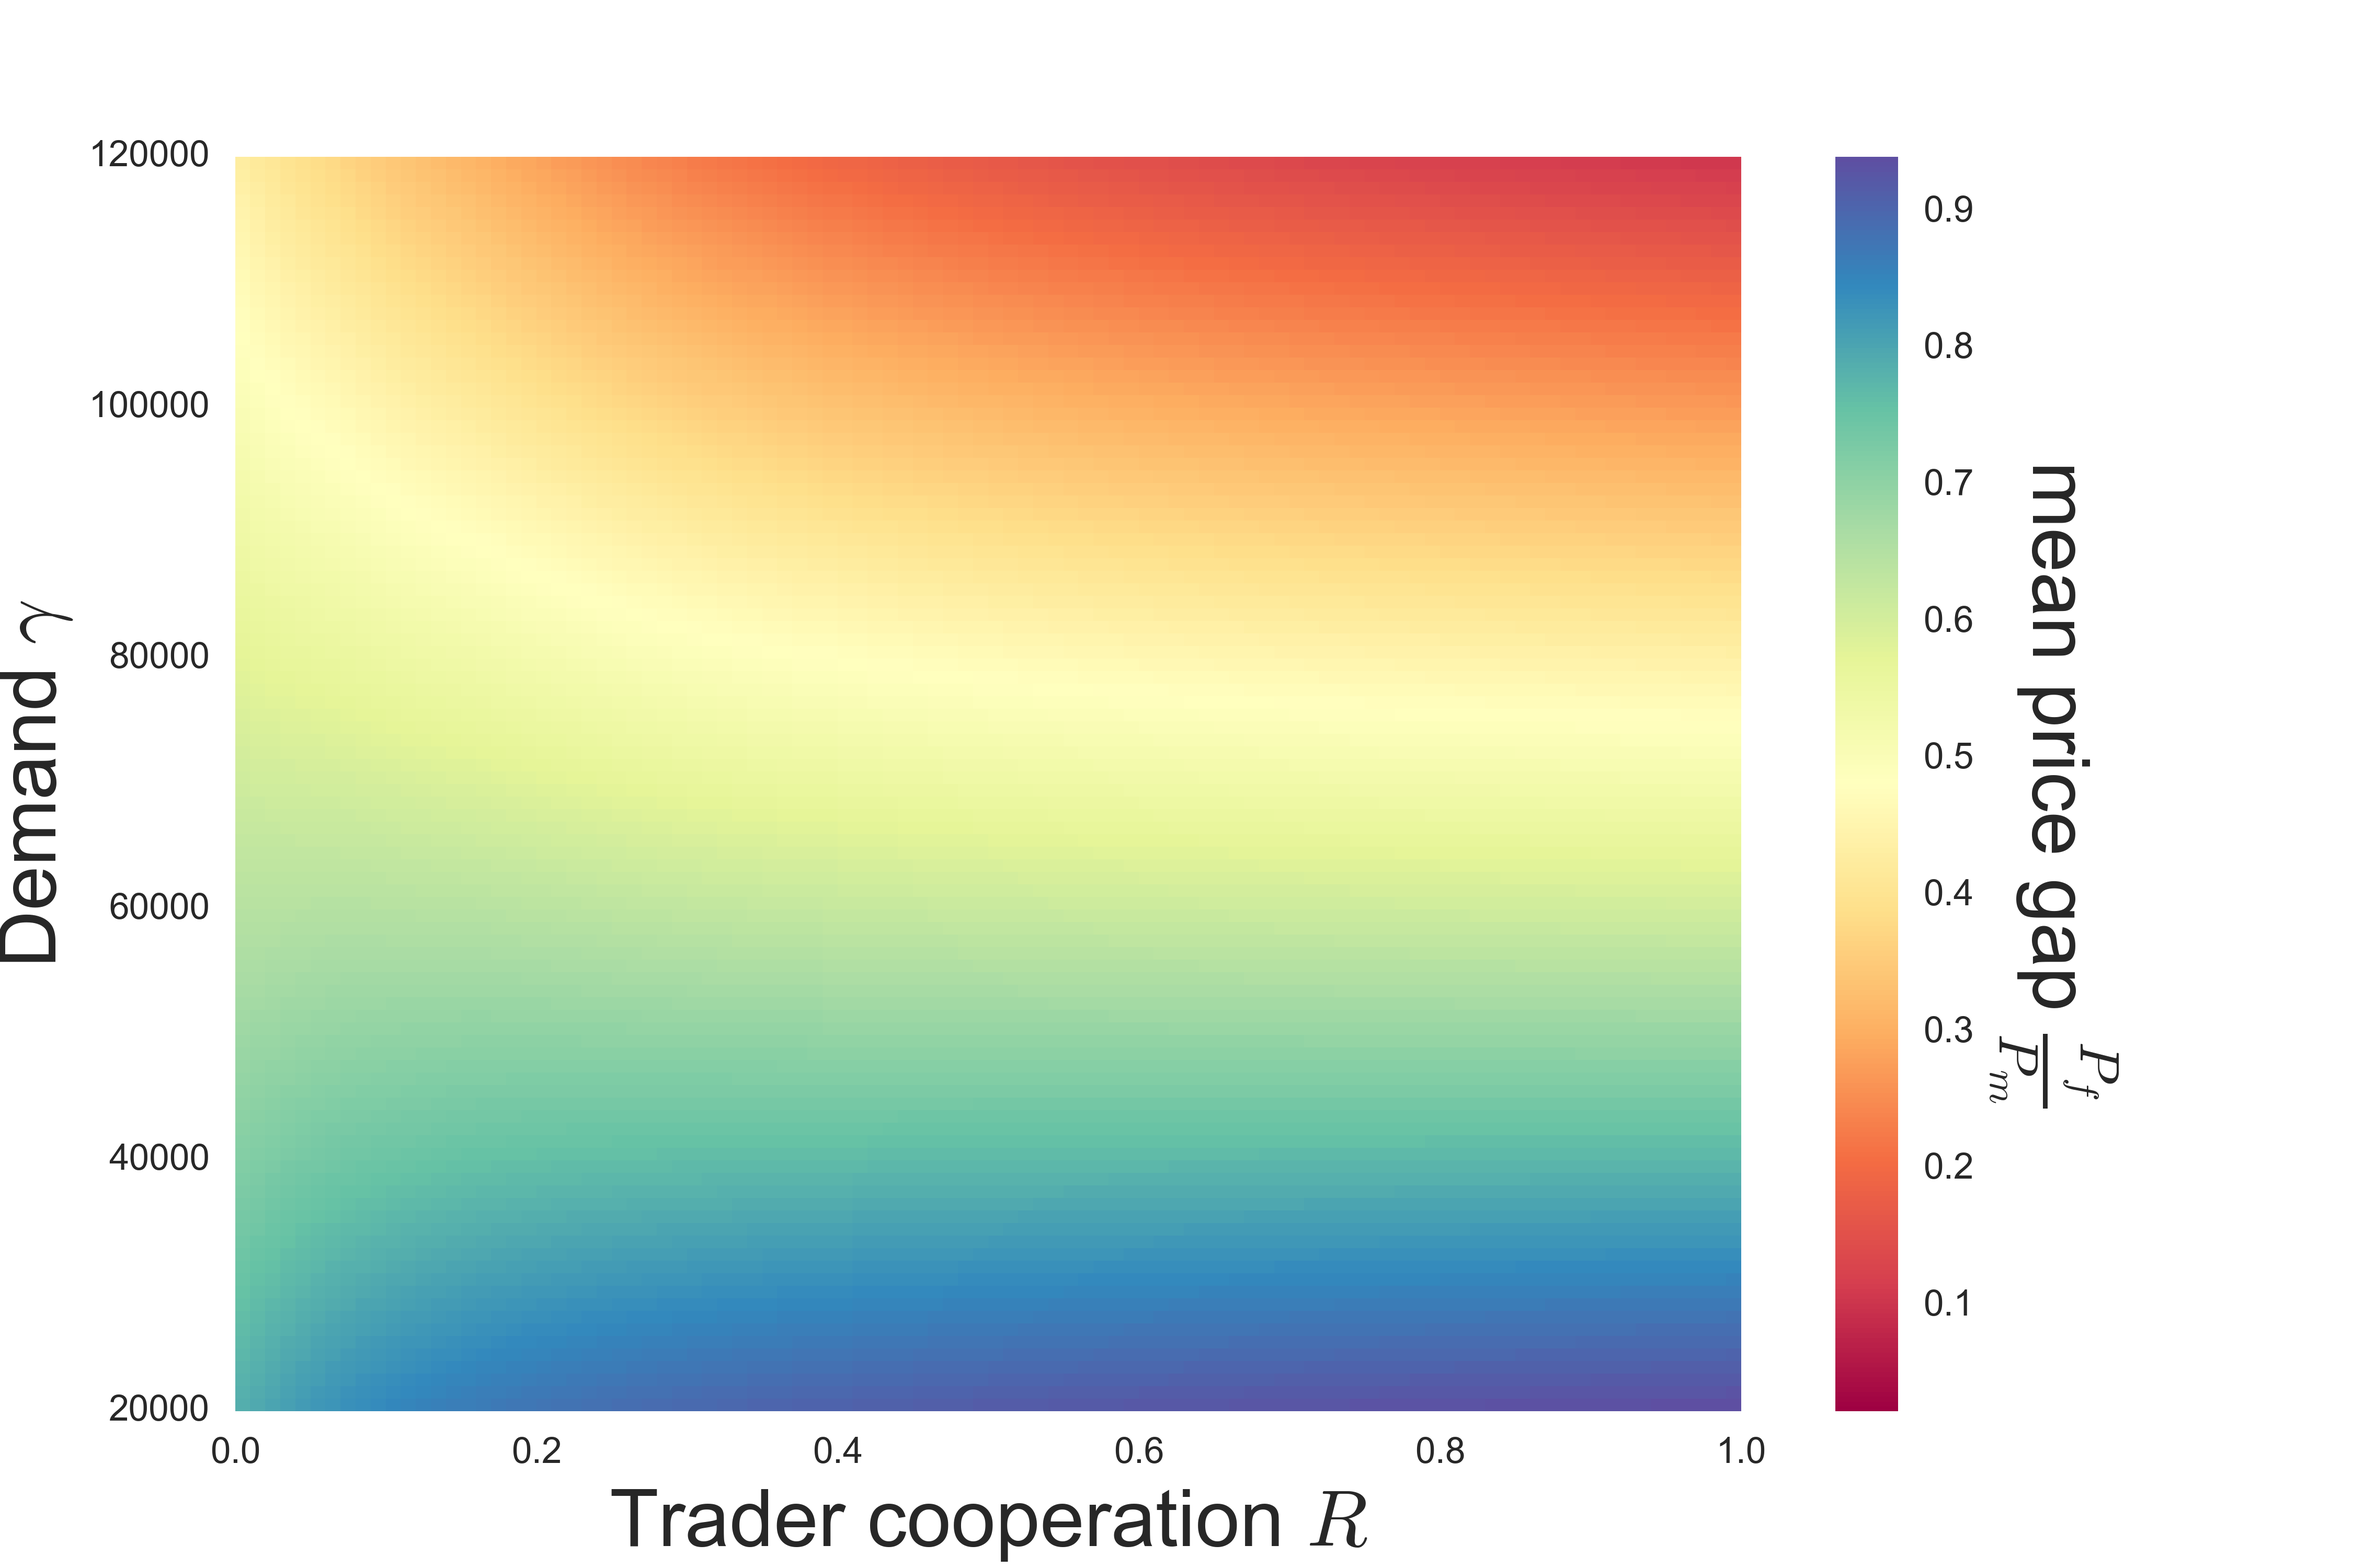
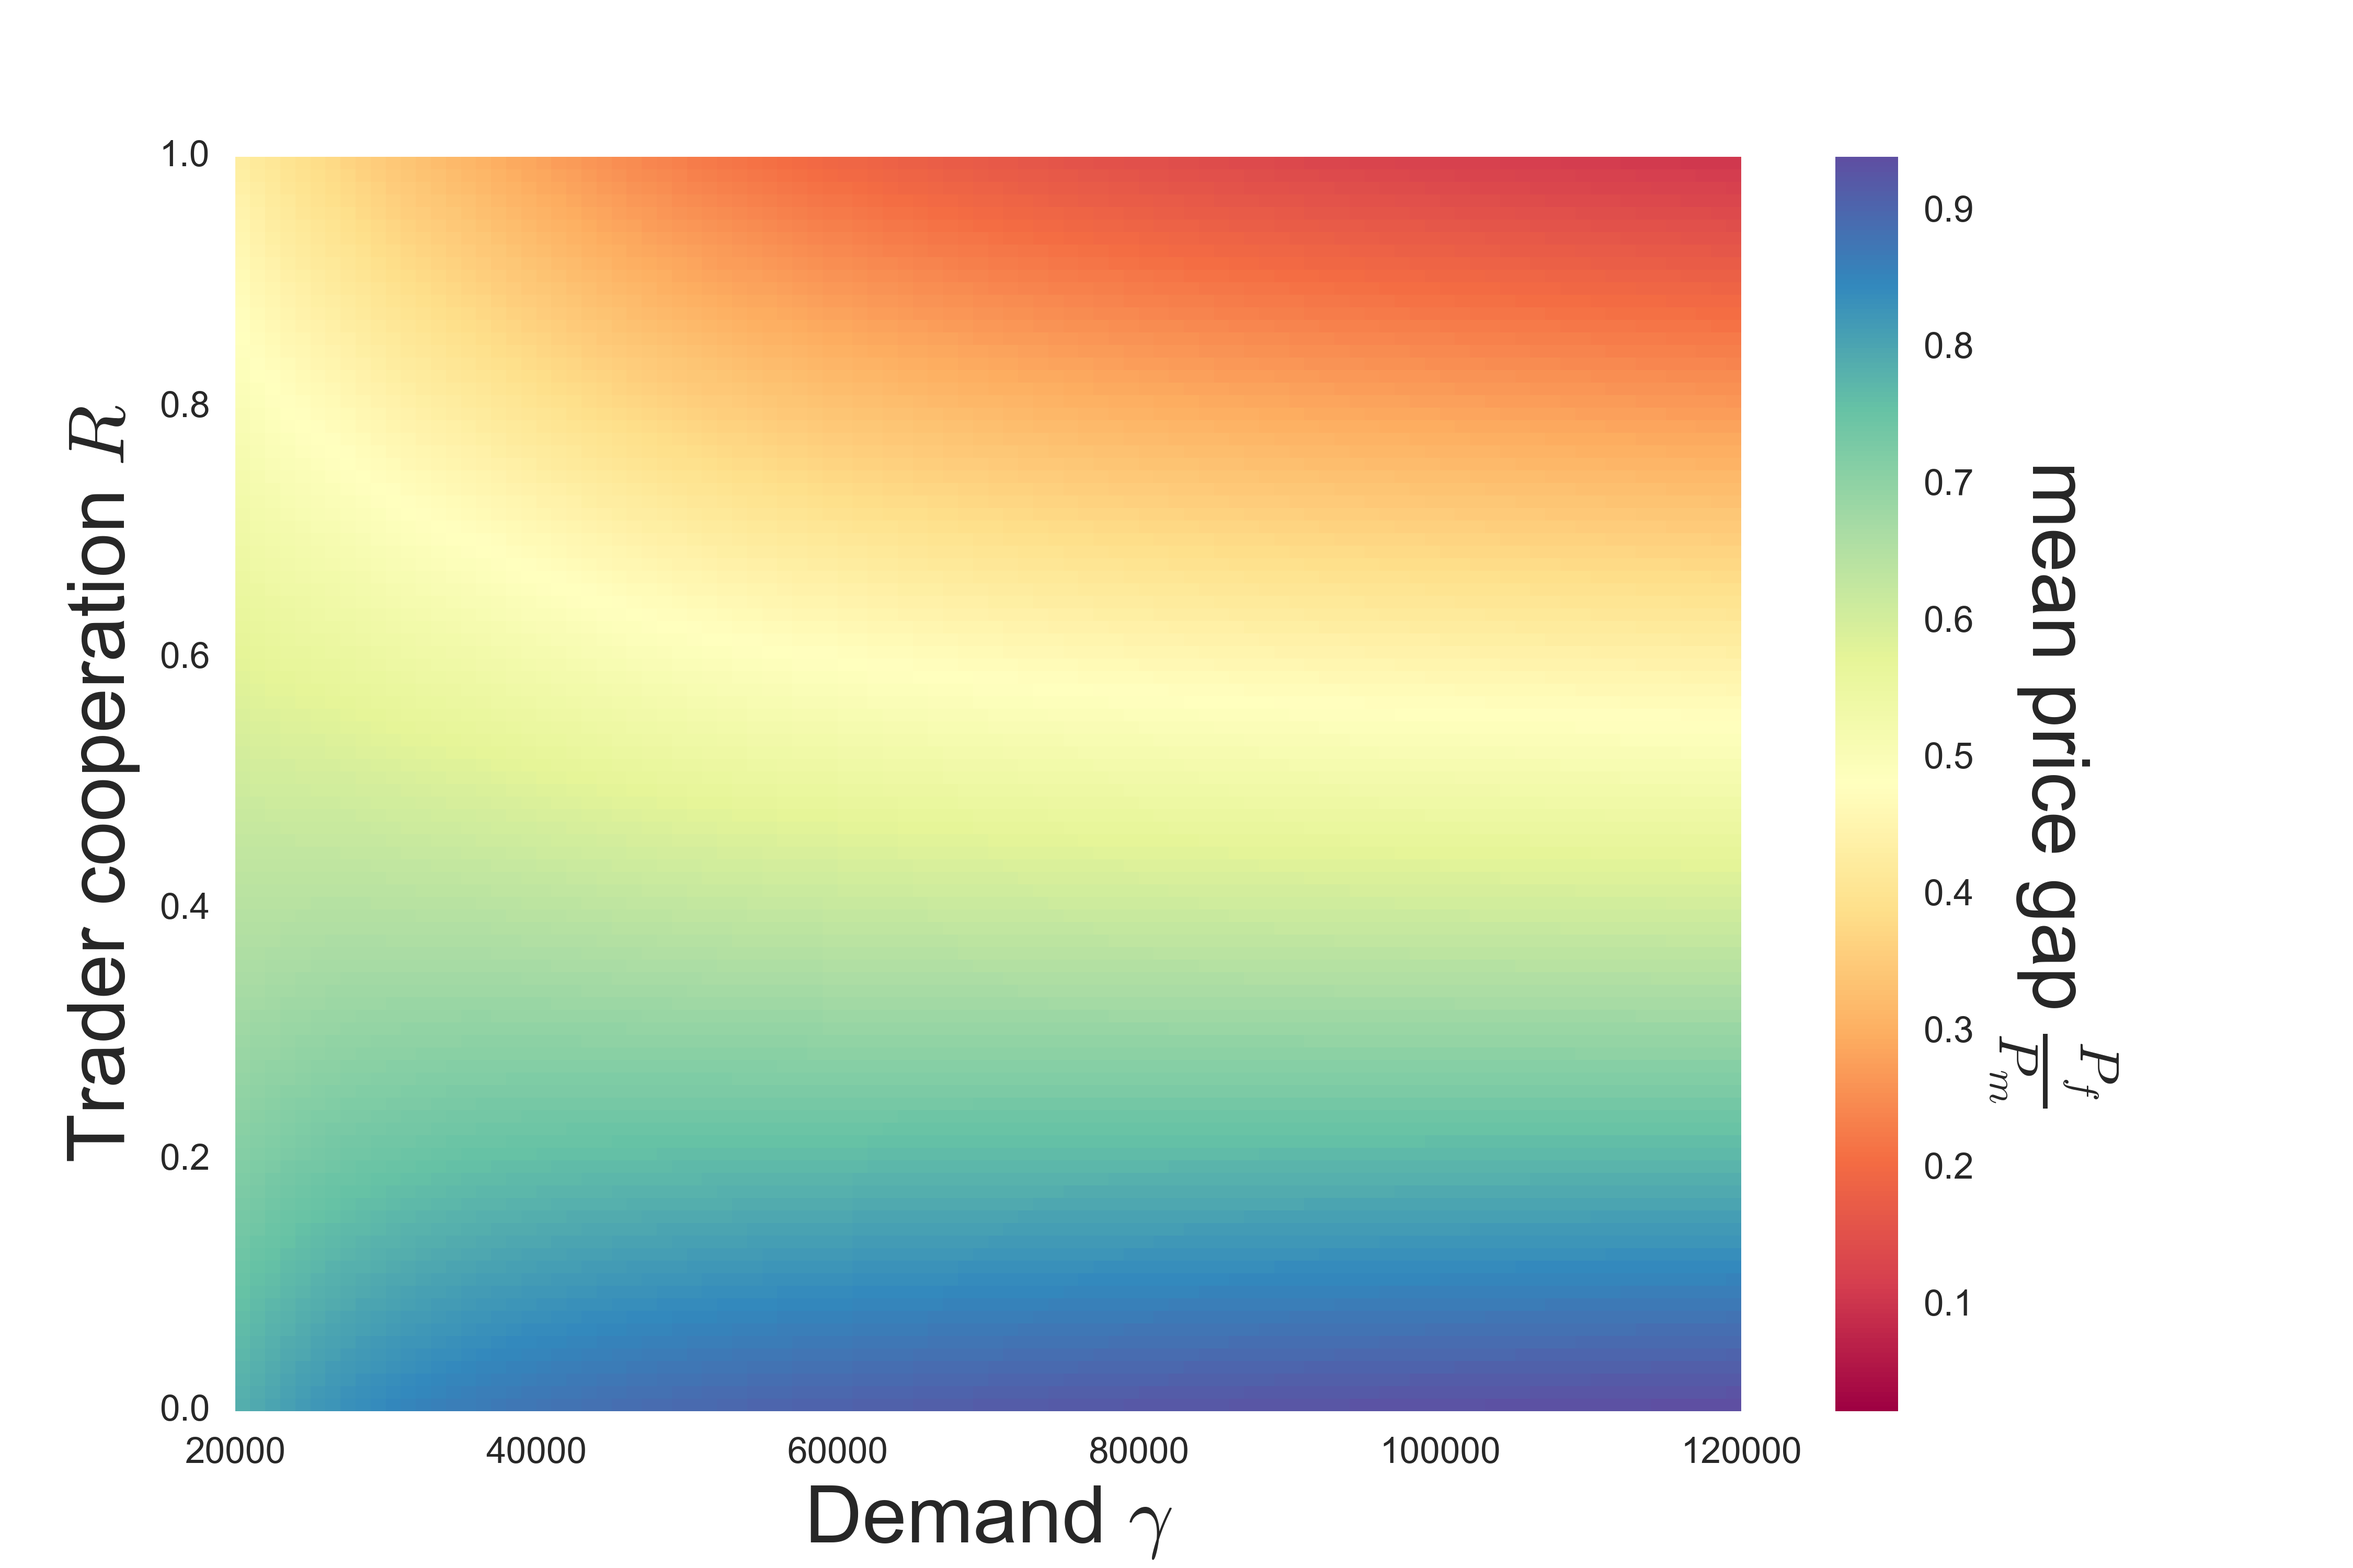
Corrected intervention heatmap plot and added SI files

diff --git a/CODE/R4_Rgamma.py b/CODE/R4_Rgamma.py
@@ -191,8 +191,8 @@ for i in np.arange(0,gamma.shape[0]):
 
 ##### Plot 1 ###################################################################
 ## define dimensions
-y = gamma #  y axis
-x = Rtt #  x axis
+y = Rtt #  y axis
+x = gamma #  x axis
 z = gap1 #  output data
 ## sub plot
 fig1 = plt.figure(figsize=[9,6])
@@ -203,11 +203,11 @@ plt.pcolormesh(x, y, z, cmap="Spectral")
 # both axis
 plt.tick_params(axis=1, which='major', labelsize=12)
 ## set y-axis
-ax.set_ylabel('Demand $\gamma$', labelpad=4, fontsize = 22)
-plt.ylim(2E4,12E4)
+ax.set_xlabel('Demand $\gamma$', labelpad=4, fontsize = 22)
+plt.xlim(2E4,12E4)
 ## set x-axis
-ax.set_xlabel('Trader cooperation $R$', fontsize = 22)
-plt.xlim(0,1)
+ax.set_ylabel('Trader cooperation $R$', fontsize = 22)
+plt.ylim(0,1)
 ## colorbar
 cb = plt.colorbar()
 cb.set_label((r'mean price gap $\frac{P_f}{P_m}$'), rotation=270, labelpad=40, fontsize = 22)
@@ -218,8 +218,8 @@ plt.show()
 
 ##### Plot 2 ###################################################################
 ## define dimensions
-y = gamma #  y axis
-x = Rtt #  x axis
+y = Rtt #  y axis
+x = gamma #  x axis
 z = gap2 #  output data
 ## sub plot
 fig1 = plt.figure(figsize=[9,6])
@@ -230,11 +230,11 @@ plt.pcolormesh(x, y, z, cmap="Spectral")
 # both axis
 plt.tick_params(axis=1, which='major', labelsize=12)
 ## set y-axis
-ax.set_ylabel('Demand $\gamma$', labelpad=4, fontsize = 22)
-plt.ylim(2E4,12E4)
+ax.set_xlabel('Demand $\gamma$', labelpad=4, fontsize = 22)
+plt.xlim(2E4,12E4)
 ## set x-axis
-ax.set_xlabel('Trader cooperation $R$', fontsize = 22)
-plt.xlim(0,1)
+ax.set_ylabel('Trader cooperation $R$', fontsize = 22)
+plt.ylim(0,1)
 ## colorbar
 cb = plt.colorbar()
 cb.set_label((r'std price gap $\frac{P_f}{P_m}$'), rotation=270, labelpad=40, fontsize = 22)
@@ -301,3 +301,62 @@ plt.show()
 # # all but bottom plot.
 # f.subplots_adjust(hspace=0.2)
 # plt.show()
+
+################################################################################
+###########################  SI PLOT  ##########################################
+################################################################################
+
+
+##### Plot 1 ###################################################################
+## define dimensions
+y = Rtt #  y axis
+x = gamma #  x axis
+z = cat #  output data
+## sub plot
+fig1 = plt.figure(figsize=[9,6])
+gs = gridspec.GridSpec(1,1,bottom=0.1,left=0.1,right=0.9)
+ax = fig1.add_subplot(gs[0,0])
+pcObject = ax.pcolormesh(x,y,z)
+plt.pcolormesh(x, y, z, cmap="Spectral")
+# both axis
+plt.tick_params(axis=1, which='major', labelsize=12)
+## set y-axis
+ax.set_xlabel('Demand $\gamma$', labelpad=4, fontsize = 22)
+plt.xlim(2E4,12E4)
+## set x-axis
+ax.set_ylabel('Trader cooperation $R$', fontsize = 22)
+plt.ylim(0,1)
+## colorbar
+cb = plt.colorbar()
+cb.set_label('Catches $tons$', rotation=270, labelpad=40, fontsize = 22)
+# plt.clim([0,1])
+## save and show
+# fig1.savefig("./Dropbox/PhD/Resources/Squid/Squid/CODE/Squid/FIGS/R4_Rgamma_C.png",dpi=500)
+plt.show()
+
+##### Plot 2 ###################################################################
+## define dimensions
+y = Rtt #  y axis
+x = gamma #  x axis
+z = rvf #  output data
+## sub plot
+fig1 = plt.figure(figsize=[9,6])
+gs = gridspec.GridSpec(1,1,bottom=0.1,left=0.1,right=0.9)
+ax = fig1.add_subplot(gs[0,0])
+pcObject = ax.pcolormesh(x,y,z)
+plt.pcolormesh(x, y, z, cmap="Spectral")
+# both axis
+plt.tick_params(axis=1, which='major', labelsize=12)
+## set y-axis
+ax.set_xlabel('Demand $\gamma$', labelpad=4, fontsize = 22)
+plt.xlim(2E4,12E4)
+## set x-axis
+ax.set_ylabel('Trader cooperation $R$', fontsize = 22)
+plt.ylim(0,1)
+## colorbar
+cb = plt.colorbar()
+cb.set_label('Fisher income $MXN$', rotation=270, labelpad=40, fontsize = 22)
+# plt.clim([0,1])
+## save and show
+# fig1.savefig("./Dropbox/PhD/Resources/Squid/Squid/CODE/Squid/FIGS/R4_Rgamma_RF.png",dpi=500)
+plt.show()
